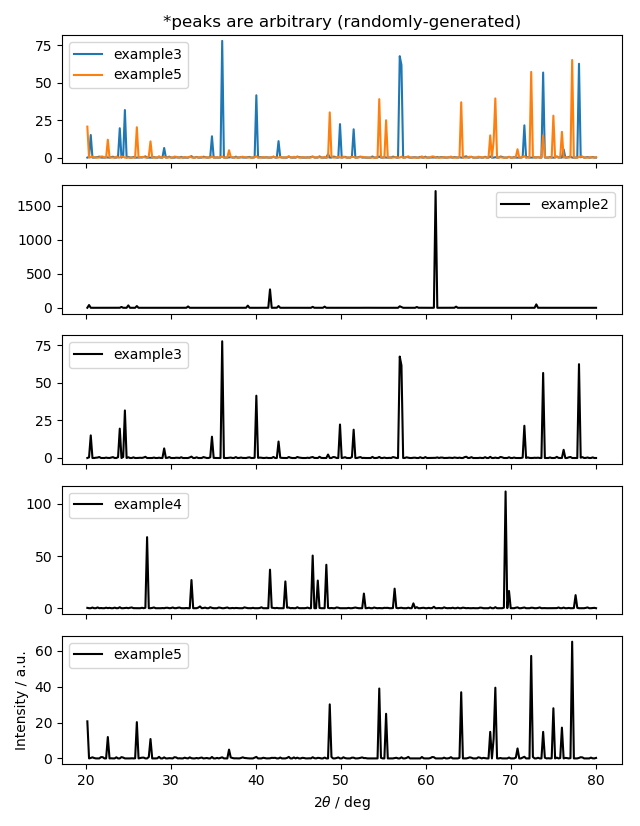
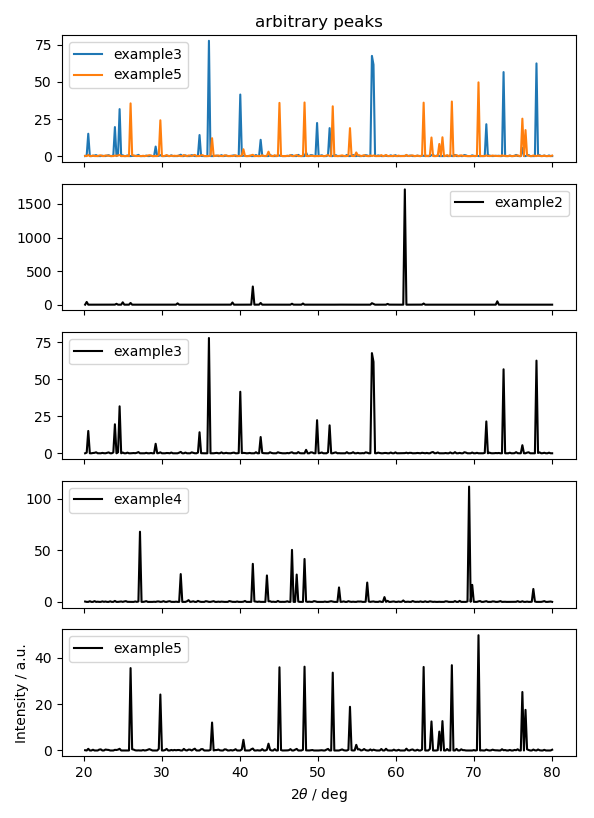
interplanar spacing fix: can now change axis without switching peaks XRD.py

diff --git a/XRD.py b/XRD.py
@@ -10,6 +10,8 @@ Andrew Garcia, 2018'''
 import csv
 import numpy as np
 import matplotlib.pyplot as plt
+from  matplotlib.pyplot import xticks
+
 from matplotlib.font_manager import FontProperties
 
 from XRD_functions import *
@@ -20,6 +22,7 @@ from XRD_mydatabase import csvfiles, labels_for_csvfiles
 
 
 labels= labels_for_csvfiles()
+
 
 
 def data(index_file):
@@ -76,10 +79,21 @@ def plotting(nplots=3,xaxis_units='braggs'):
                 pax = axarr[0]
 
             if xaxis_units == 'braggs':
-                pax.plot(braggs(x),yb,label=labels[i])
+#                pax.plot(braggs(x),yb,label=labels[i])
+                pax.plot(x,yb,label=labels[i])
+                
+                locs, tickls = xticks()
+                
+               
+                print(braggs(locs))
+                print(locs)
+                xticks(locs,braggs(locs))
+
 
             else:
                 pax.plot(x,yb,label=labels[i])
+                
+                
 
 
 #            axarr.plot(x,yb,label=labels[i],color='k')
@@ -110,8 +124,10 @@ def plotting(nplots=3,xaxis_units='braggs'):
             rx,ryb = movnavg(rx,ryb)
 
             if xaxis_units == 'braggs':
-#                axarr[ix].plot(braggs(rx),braggs(ryb),label=labels[i],color='k')
-                axarr[ix].plot(braggs(rx),ryb,label=labels[i],color='k')
+#                axarr[ix].plot(braggs(rx),ryb,label=labels[i],color='k')
+                
+                axarr[ix].plot(rx,ryb,label=labels[i],color='k')
+
 
             else:
                 axarr[ix].plot(rx,ryb,label=labels[i],color='k')
@@ -156,6 +172,7 @@ def selection():
             
             ]
     
+    
     [I.append('empty') for i in range(5)]
     
 
@@ -179,5 +196,5 @@ def selection():
 
     return I,J
 
-plotting(3,'braggs')
-plotting(3,'')
+plotting(5,'braggs')
+plotting(5,'')

diff --git a/XRD_functions.py b/XRD_functions.py
@@ -8,6 +8,7 @@ import numpy as np
 import matplotlib.pyplot as plt
 
 
+
 '''Local maxima finder'''
 def local_max(x,y,xrange=[12,13]):
     x1,x2=xrange
@@ -55,7 +56,23 @@ def emission_lines_plt(x, y, twothet_range_Ka=[10,20], lmda_Ka = 0.154,lmda_Ki=0
 def braggs(twotheta,lmda=1.54):
     'lambda in Angstroms'
     twothet_rad=twotheta*np.pi/180
-    return  lmda /(2*np.sin(twothet_rad/2))
+    
+#    dhkl = lmda /(2*np.sin(twothet_rad/2))
+    
+    if twothet_rad.any() < 5:
+        L =len(twotheta)
+        dhkl = np.zeros(L)
+        dhkl[0] = 'inf'
+        
+        k =1
+        while k < L:
+            dhkl[k] = lmda /(2*np.sin(twothet_rad[k]/2))
+            k+=1
+    else:
+        dhkl = lmda /(2*np.sin(twothet_rad/2))
+    
+    dhkl = np.round(dhkl,2)
+    return dhkl
 
 '''Scherrer equation'''
 def scherrer(K,lmda,beta,theta):
